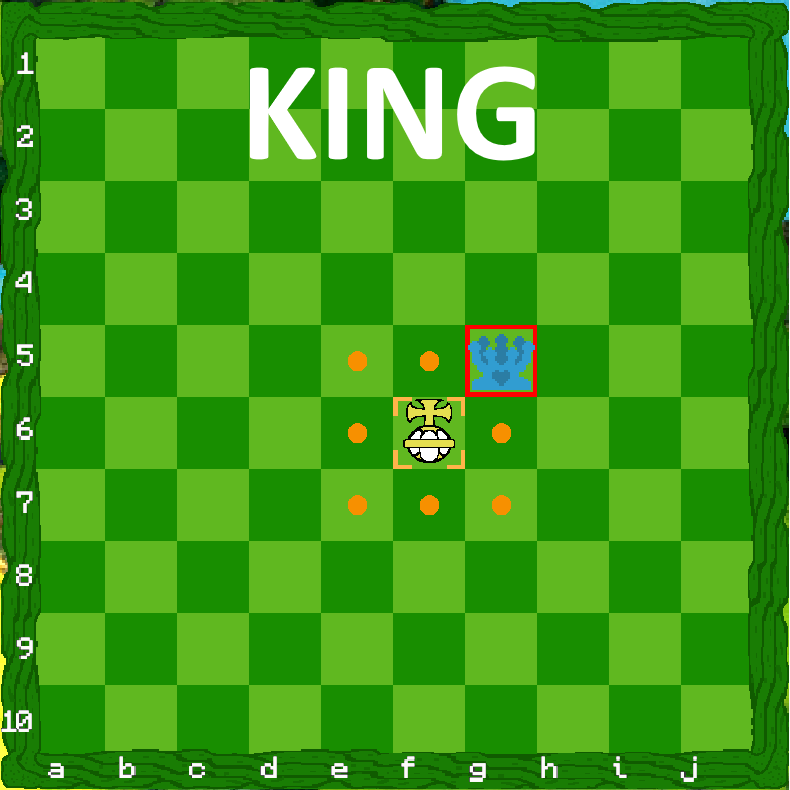
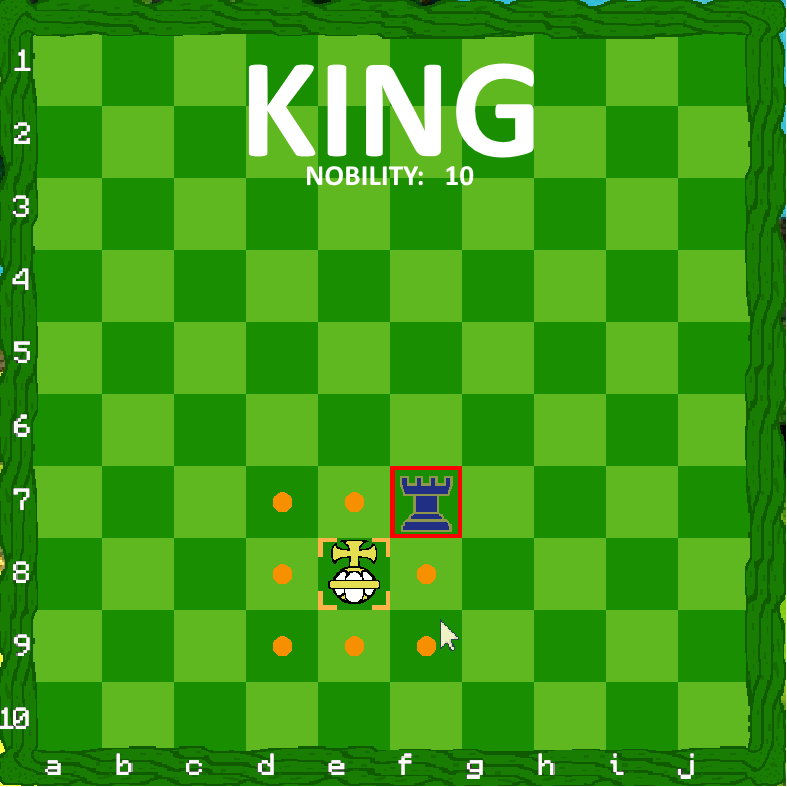
Fixed King info board text

diff --git a/app/source/shop.cpp b/app/source/shop.cpp
@@ -115,7 +115,7 @@ Piece* CreateKing()
                              "Moves like a king in chess. Can move 1 tile in any direction.",
                              130,
                              10,
-                             "data/info_King2.png",
+                             "data/info_King.png",
                              1);
 
     for (int i = 1; i <= 1; i++)
